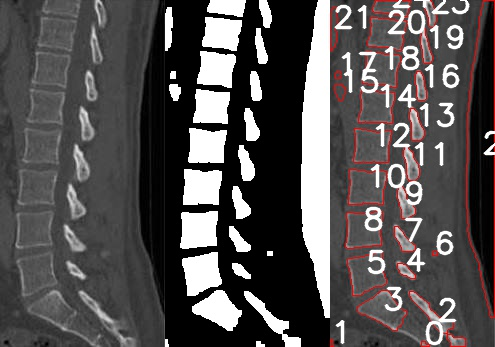
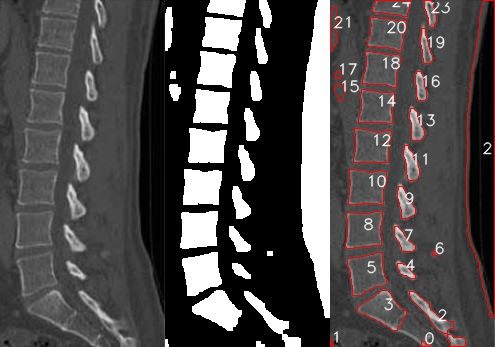
update_text

diff --git a/image_processing.py b/image_processing.py
@@ -70,7 +70,7 @@ def features(roi,contours):
         aspect_ratio=np.append(aspect_ratio,float(w)/h)
         #index
         index=np.append(index,i)
-        cv2.putText(roi,str(i),(cx,cy),cv2.FONT_HERSHEY_SIMPLEX,1,(255,255,255),2,cv2.LINE_AA)
+        cv2.putText(roi,str(i),(cx,cy),cv2.FONT_HERSHEY_SIMPLEX,0.5,(255,255,255),1,cv2.LINE_AA)
         i+=1
 
     df = pd.DataFrame({"Index":index,
